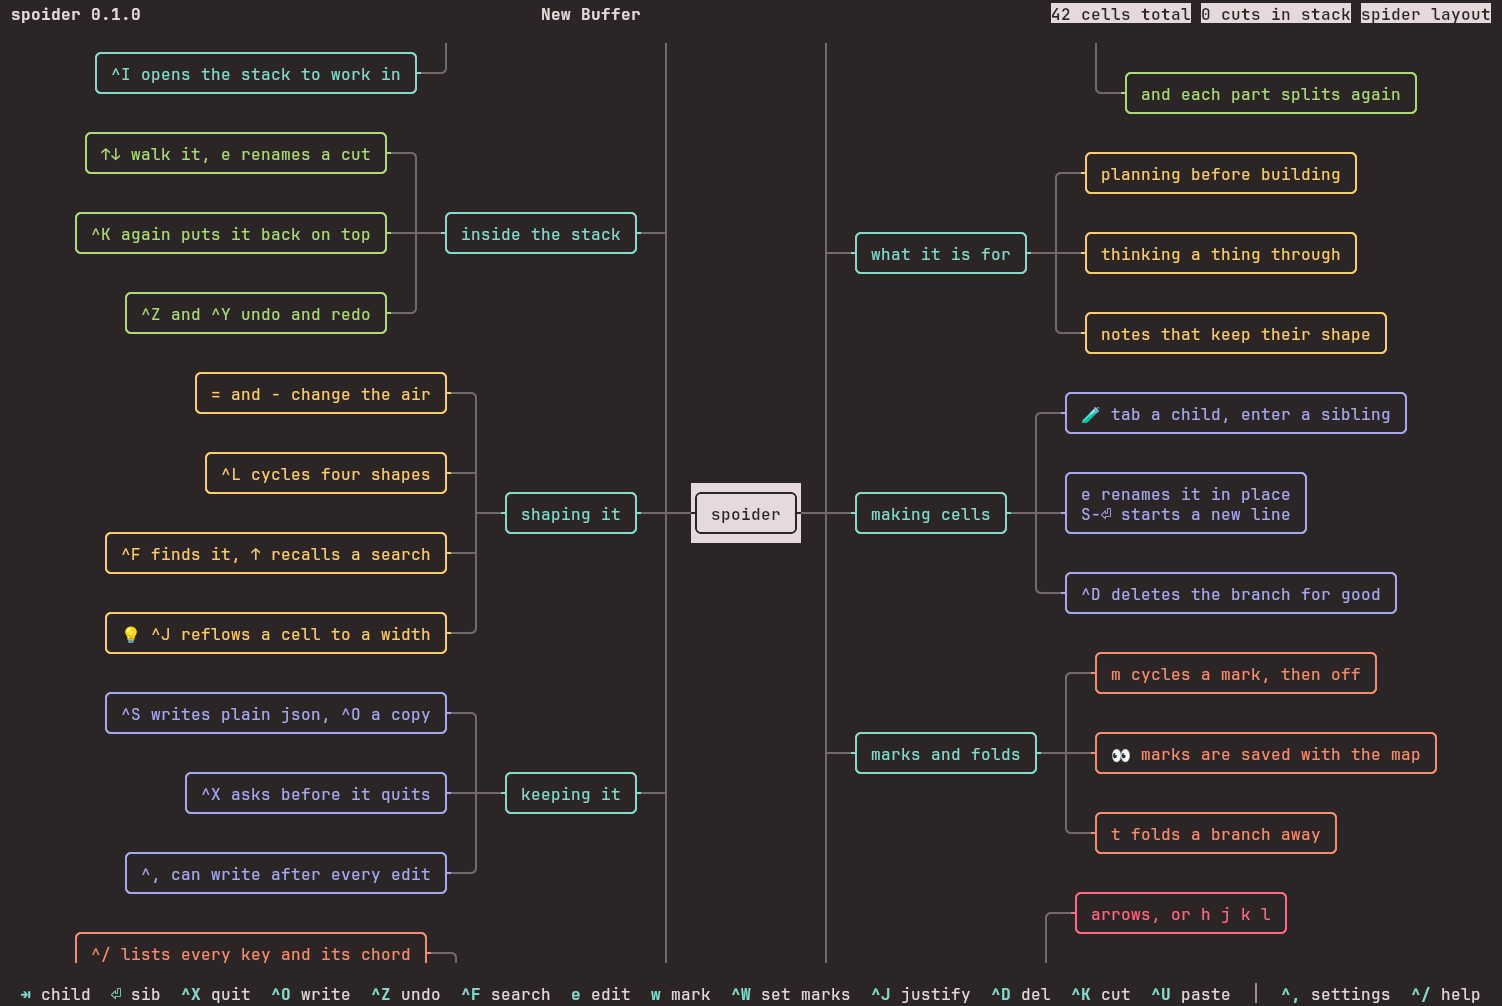
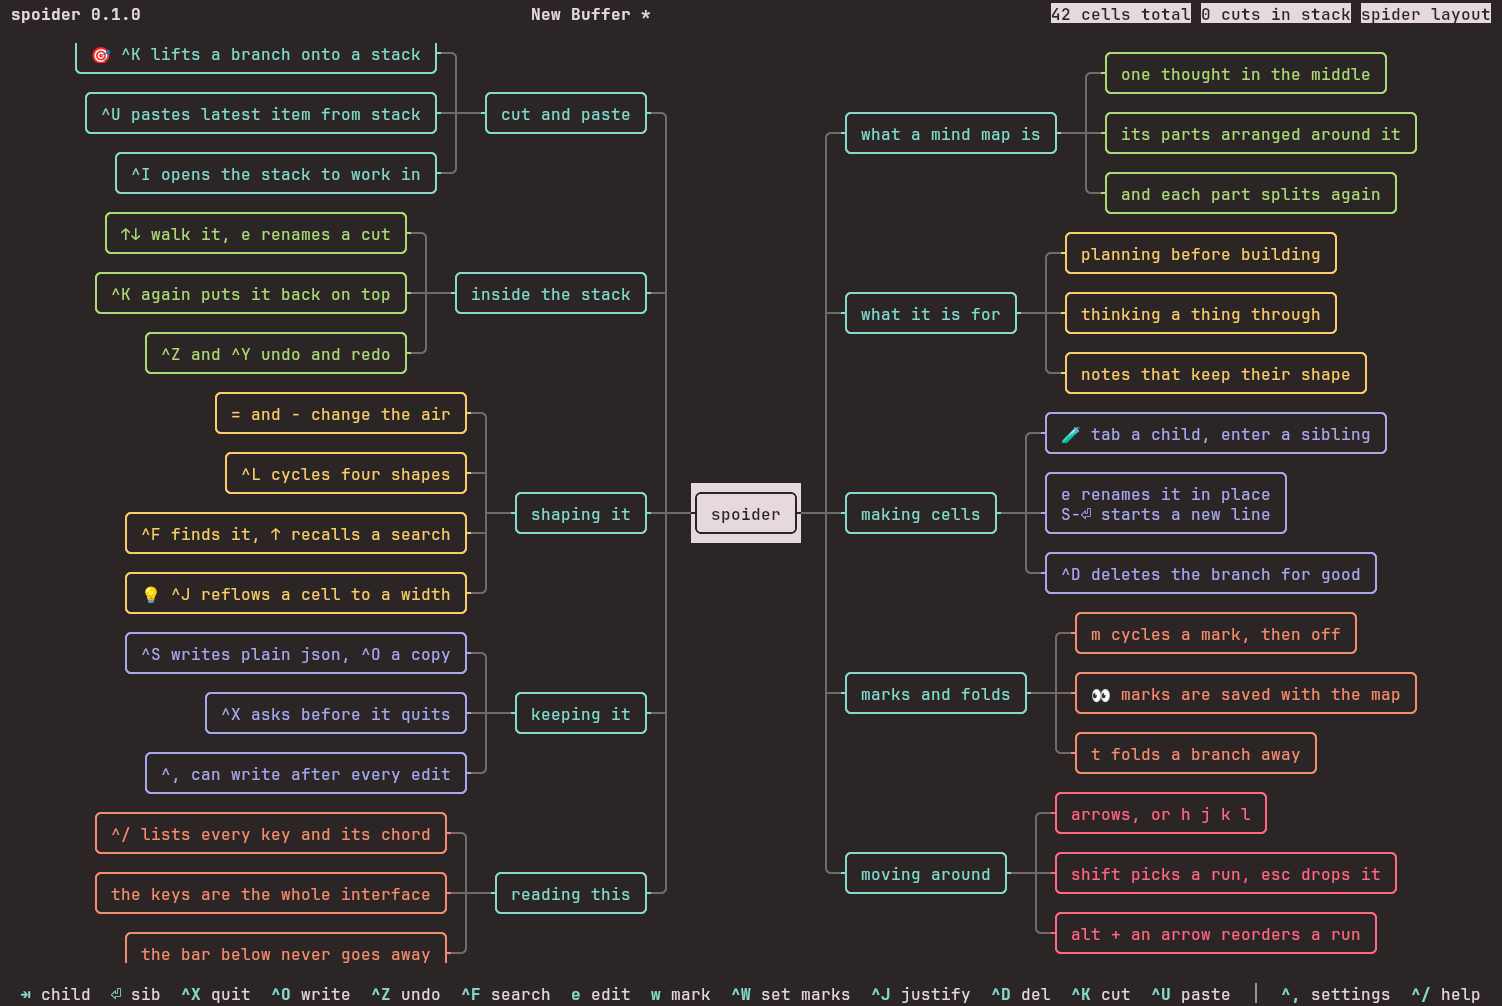
Shoot the README picture one step tighter
The demo opens at spacing 0, which leaves more air than the picture needs. shot.py now
presses - once before capturing, so a re-shoot looks the same instead of depending on
someone remembering, and the PNG in media/ is the new capture at -1: the map is 142
columns wide instead of 144.

diff --git a/media/tour/shot.py b/media/tour/shot.py
@@ -107,7 +107,9 @@ def main() -> int:
         time.sleep(1)
         if "spoider 0.1.0" in run(["tmux", "capture-pane", "-p", "-t", SESSION]).stdout:
             break
-    time.sleep(2.0)
+    # the demo opens at spacing 0; the picture reads better one step tighter
+    run(["tmux", "send-keys", "-t", SESSION, "-l", "--", "-"])
+    time.sleep(1.0)
 
     grid = run(["tmux", "display", "-p", "-t", SESSION, "#{client_width}x#{client_height}"]).stdout.strip()
     border = int(run(["hyprctl", "getoption", "general:border_size"]).stdout.split("int:")[1].split()[0])
